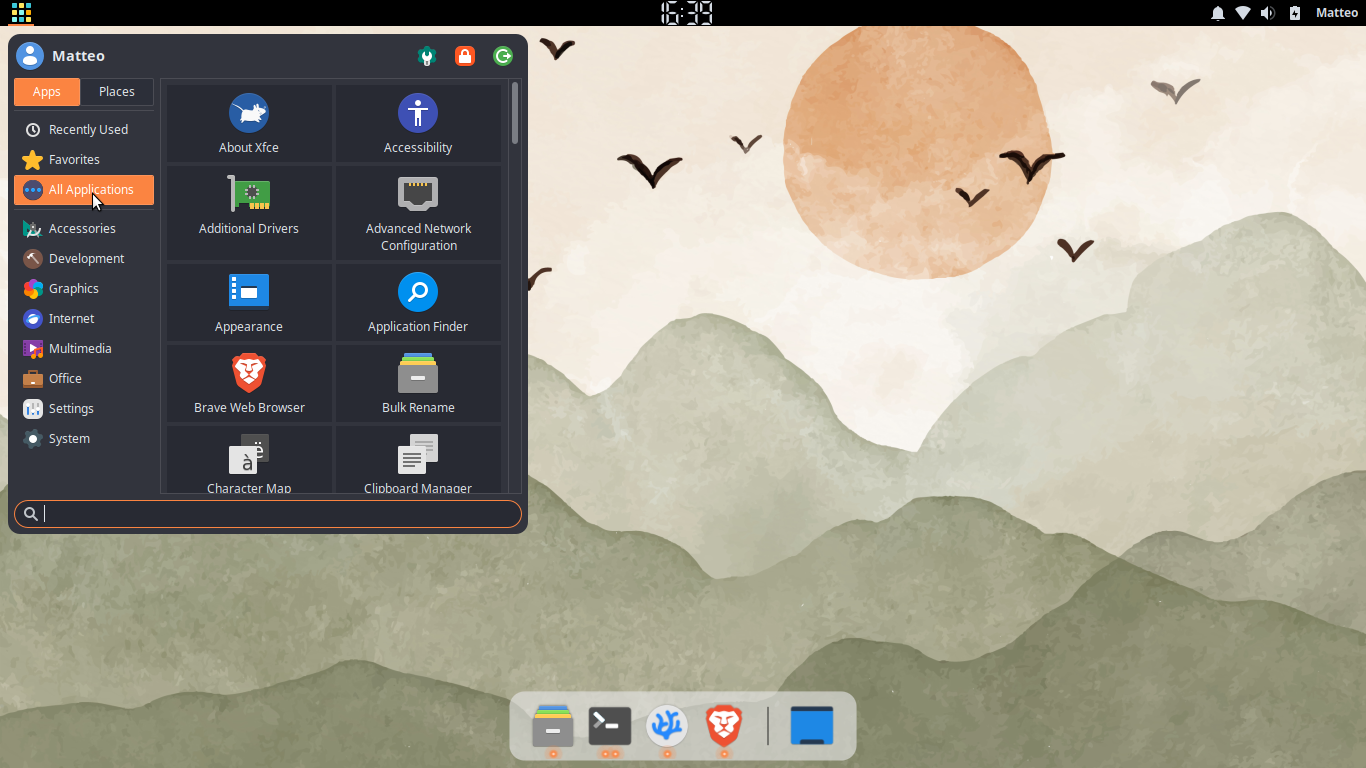
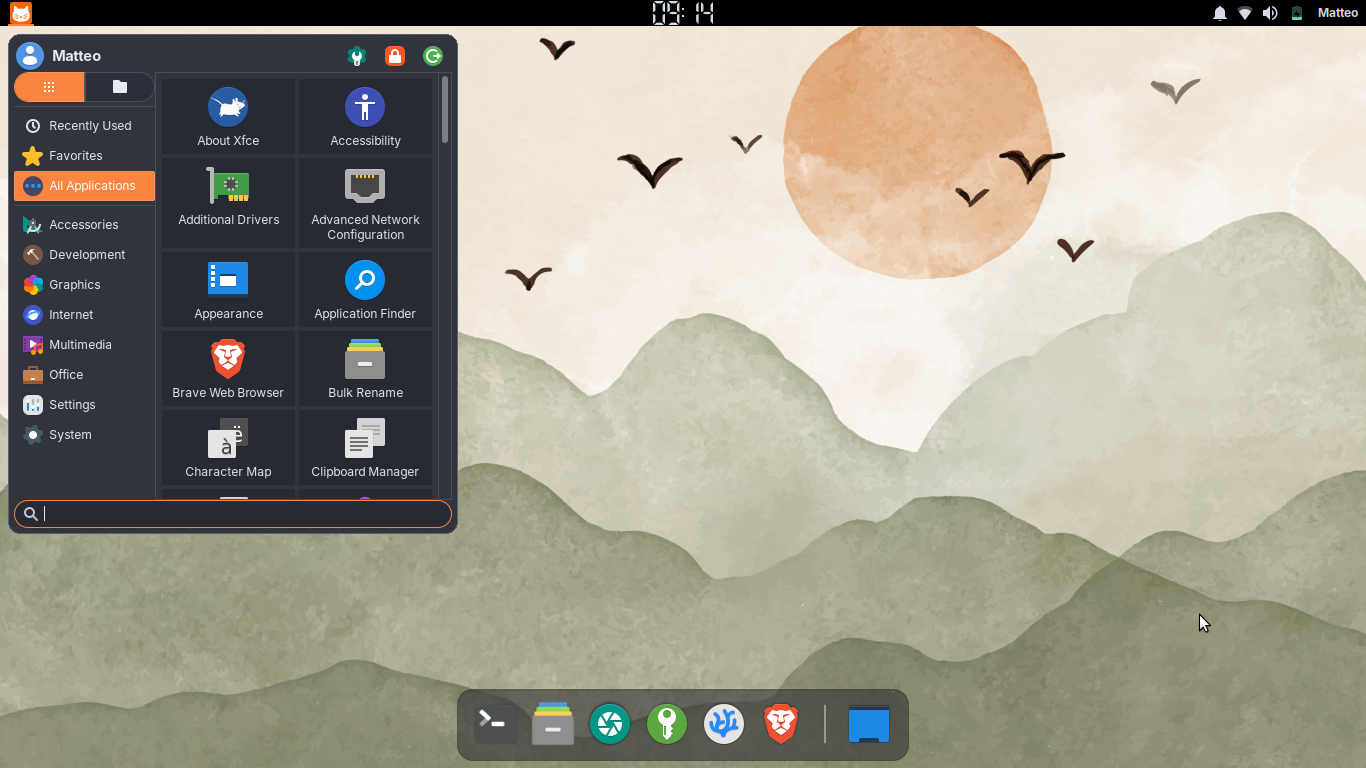
opacity: disconnect result-list scroll safeguard when its view is destroyed

diff --git a/tests/test_launcher_safeguard_lifecycle.cpp b/tests/test_launcher_safeguard_lifecycle.cpp
@@ -1,0 +1,176 @@
+/* test_launcher_safeguard_lifecycle:
+ *
+ * Freezes the FR-008a invariant (render-invariants contract I13): the
+ * translucency-only scroll-reveal safeguard in the shared LauncherView base
+ * connects a value-changed handler to the scrolled window's vertical
+ * GtkAdjustment — the one safeguard connection on an object the view does NOT
+ * own and which outlives it across menu rebuilds. That handler MUST stop firing
+ * once the view is destroyed, or a later value-changed on the surviving
+ * adjustment invokes queue_translucent_safeguard_redraw() -> get_widget() on a
+ * freed view: the intermittent plugin crash/restart SC-005a describes (closing,
+ * rebuilding, or reloading the menu after scrolling a translucent list).
+ *
+ * Setup faithful to production: the view is placed in a real GtkScrolledWindow,
+ * which installs its vertical adjustment on the scrollable child (firing the
+ * base's notify::vadjustment hook) — exactly how the safeguard is wired at
+ * runtime. We hold our own ref on that adjustment so it survives the view, as the
+ * reused scrolled window does in production.
+ *
+ * The fix lives entirely in the header-only base LauncherView, so a minimal
+ * concrete subclass over a real GtkTreeView exercises the identical production
+ * code path (the notify::vadjustment binding, the view-"destroy" disconnect, and
+ * the adjustment-swap disconnect) without dragging in the Settings/Plugin/xfconf
+ * graph the real LauncherTreeView constructor requires. Exercising one concrete
+ * view validates the base for both views (research R6).
+ *
+ * Observable: get_widget() is the first thing the safeguard touches on the view,
+ * so a call counter on it tells us precisely whether the safeguard handler fired
+ * for a given value-changed emission — reliably, unlike g_signal_handler_find,
+ * which does not match the closure-connected handler here. After teardown the
+ * handler must NOT fire (count unchanged) and the process must not fault; against
+ * the pre-fix code this same emission is a use-after-free that segfaults and is
+ * caught by the sanitizer CI (constitution VI).
+ *
+ * No display is required: gtk_init_check() primes type registration, and creating
+ * widgets plus emitting adjustment signals needs no realization.
+ */
+
+#include "ui/launcher-view.h"
+
+#include <glib.h>
+#include <gtk/gtk.h>
+
+#include <cstdio>
+#include <cstdlib>
+
+using namespace WhiskerMenu;
+
+namespace
+{
+
+int g_failures = 0;
+
+// Counts calls to the test view's get_widget(). The safeguard redraw calls
+// get_widget() whenever it fires while translucent, so the delta around a
+// value-changed emission reports whether the safeguard handler ran. It is a
+// process-global (not a member), so it survives the view's destruction and stays
+// readable after teardown.
+int g_get_widget_calls = 0;
+
+#define CHECK(cond) do { \
+		if (!(cond)) { \
+			std::fprintf(stderr, "FAIL %s:%d: %s\n", __FILE__, __LINE__, #cond); \
+			++g_failures; \
+		} \
+	} while (0)
+
+// Minimal concrete LauncherView over a real GtkTreeView. It wires the shared base
+// safeguard the same way the production views do (enable_hover_selection on the
+// scrollable view widget) and tears the widget down in its destructor exactly as
+// LauncherTreeView::~LauncherTreeView does, so the base "destroy" disconnect runs
+// under the real lifecycle. Every other override is an inert stub: this test only
+// drives the scroll-reveal lifetime path.
+class TestLauncherView : public LauncherView
+{
+public:
+	TestLauncherView()
+	{
+		m_widget = gtk_tree_view_new();
+		g_object_ref_sink(m_widget);
+		enable_hover_selection(m_widget);
+	}
+
+	~TestLauncherView() override
+	{
+		gtk_widget_destroy(m_widget);
+		g_object_unref(m_widget);
+	}
+
+	GtkWidget* get_widget() const override
+	{
+		++g_get_widget_calls;
+		return m_widget;
+	}
+
+	GtkTreePath* get_cursor() const override { return nullptr; }
+	GtkTreePath* get_path_at_pos(int, int) const override { return nullptr; }
+	GtkTreePath* get_selected_path() const override { return nullptr; }
+	bool is_path_selected(GtkTreePath*) const override { return false; }
+	void activate_path(GtkTreePath*) override {}
+	void scroll_to_path(GtkTreePath*) override {}
+	void select_path(GtkTreePath*) override {}
+	void set_cursor(GtkTreePath*) override {}
+
+	void set_fixed_height_mode(bool) override {}
+	void set_selection_mode(GtkSelectionMode) override {}
+
+	void hide_tooltips() override {}
+	void show_tooltips() override {}
+
+	void clear_selection() override {}
+	void collapse_all() override {}
+
+	void set_model(GtkTreeModel*) override {}
+	void unset_model() override {}
+
+	void set_drag_source(GdkModifierType, const GtkTargetEntry*, gint, GdkDragAction) override {}
+	void set_drag_dest(const GtkTargetEntry*, gint, GdkDragAction) override {}
+	void unset_drag_source() override {}
+	void unset_drag_dest() override {}
+
+	void reload_icon_size() override {}
+
+private:
+	GtkWidget* m_widget;
+};
+
+} // namespace
+
+int main()
+{
+	gtk_init_check(nullptr, nullptr);
+
+	GtkWidget* scrolled = gtk_scrolled_window_new(nullptr, nullptr);
+	g_object_ref_sink(scrolled);
+
+	TestLauncherView* view = new TestLauncherView();
+
+	// Adding the scrollable view installs the scrolled window's vertical
+	// adjustment on it (notify::vadjustment), binding the base safeguard. Push the
+	// translucent flag so the safeguard is the active (non no-op) path.
+	gtk_container_add(GTK_CONTAINER(scrolled), view->get_widget());
+	view->set_background_translucent(true);
+
+	// Hold our own ref: the adjustment must outlive the view, like the reused
+	// scrolled window's adjustment in production.
+	GtkAdjustment* adj = gtk_scrolled_window_get_vadjustment(GTK_SCROLLED_WINDOW(scrolled));
+	g_object_ref(adj);
+
+	// Live path: with the view alive and translucent, a value-changed must reach
+	// the safeguard (it calls get_widget()).
+	int before = g_get_widget_calls;
+	g_signal_emit_by_name(adj, "value-changed");
+	CHECK(g_get_widget_calls > before);
+
+	// Destroy the view. Its "destroy" (and the adjustment unbinding the scrolled
+	// window performs on child removal) must leave no live safeguard handler.
+	delete view;
+
+	// FR-008a: emitting on the surviving adjustment after teardown must NOT reach
+	// the safeguard — get_widget() is not called and nothing dereferences the
+	// freed view. Against the pre-fix code this emission is a use-after-free.
+	before = g_get_widget_calls;
+	g_signal_emit_by_name(adj, "value-changed");
+	CHECK(g_get_widget_calls == before);
+
+	g_object_unref(adj);
+	g_object_unref(scrolled);
+
+	if (g_failures != 0)
+	{
+		std::fprintf(stderr, "test_launcher_safeguard_lifecycle: %d failure(s)\n", g_failures);
+		return EXIT_FAILURE;
+	}
+	std::printf("test_launcher_safeguard_lifecycle: ok\n");
+	return EXIT_SUCCESS;
+}

diff --git a/panel-plugin/ui/launcher-view.h b/panel-plugin/ui/launcher-view.h
@@ -138,16 +138,43 @@ protected:
 		// that reveals rows — with no selection change — still recomposites the
 		// whole surface (FR-007's "newly revealed rows", the 041 symptom). Gated by
 		// the translucent flag, so a no-op at opacity 100.
+		//
+		// LIFECYCLE: this is the ONE safeguard connection made on an object the
+		// view does not own. The vertical adjustment belongs to the scrolled
+		// window, which is part of the results panel and is reused across menu
+		// rebuilds, so it outlives this LauncherView. Every other safeguard
+		// connection is on the view widget and is torn down with it; this one must
+		// be unbound explicitly, or a later value-changed would invoke
+		// queue_translucent_safeguard_redraw() → get_widget() on a freed view
+		// (use-after-free, FR-008a). We therefore track the current adjustment and
+		// our handler id, drop a stale handler whenever GTK swaps the adjustment
+		// (so at most one is ever live), and disconnect on the view widget's own
+		// "destroy" (below) so the handler can never fire after the view is gone.
 		connect(view, "notify::vadjustment",
 			[this](GtkWidget* w, GParamSpec*)
 			{
 				GtkAdjustment* adj = gtk_scrollable_get_vadjustment(GTK_SCROLLABLE(w));
+				disconnect_scroll_safeguard();
 				if (adj)
-					connect(adj, "value-changed",
+				{
+					m_scroll_adjustment = adj;
+					m_scroll_handler_id = connect(adj, "value-changed",
 						[this](GtkAdjustment*)
 						{
 							queue_translucent_safeguard_redraw();
 						});
+				}
+			});
+
+		// Bind the external-adjustment connection above to the view widget's
+		// lifetime. "destroy" is emitted on the view (during its concrete
+		// destructor's gtk_widget_destroy, while this LauncherView is still alive),
+		// so its Slot is torn down normally and the disconnect runs at exactly the
+		// right moment — before the view is freed, covering the FR-008a teardown.
+		connect(view, "destroy",
+			[this](GtkWidget*)
+			{
+				disconnect_scroll_safeguard();
 			});
 	}
 
@@ -173,10 +200,35 @@ protected:
 	GtkTreeModel* m_model = nullptr;
 
 private:
+	/* disconnect_scroll_safeguard:
+	 *
+	 * Disconnects the value-changed handler tracked on the scrolled window's
+	 * vertical adjustment (if any) and clears the tracking members. Idempotent:
+	 * safe to call when nothing is tracked. Invoked when GTK swaps the adjustment
+	 * (so only one handler is ever live) and from the view widget's "destroy" (so
+	 * the handler never outlives the view it would refresh — FR-008a).
+	 */
+	void disconnect_scroll_safeguard()
+	{
+		if (m_scroll_adjustment && m_scroll_handler_id != 0)
+		{
+			g_signal_handler_disconnect(m_scroll_adjustment, m_scroll_handler_id);
+		}
+		m_scroll_adjustment = nullptr;
+		m_scroll_handler_id = 0;
+	}
+
 	// Whether the menu background is translucent (alpha < 1). Pushed by the view
 	// owner via set_background_translucent(); gates the safeguard redraw so the
 	// fully-opaque path pays nothing. Default false until the owner pushes a value.
 	bool m_background_translucent = false;
+
+	// The scrolled window's vertical adjustment we hold a value-changed handler
+	// on, plus that handler's id. The adjustment is not owned by this view and
+	// outlives it, so the pair lets us disconnect the handler on adjustment swap
+	// and on view destroy (FR-008a). Both stay null/0 while nothing is tracked.
+	GtkAdjustment* m_scroll_adjustment = nullptr;
+	gulong m_scroll_handler_id = 0;
 
 	/* select_path_at_pos:
 	 * @x: pointer x in widget coordinates.
